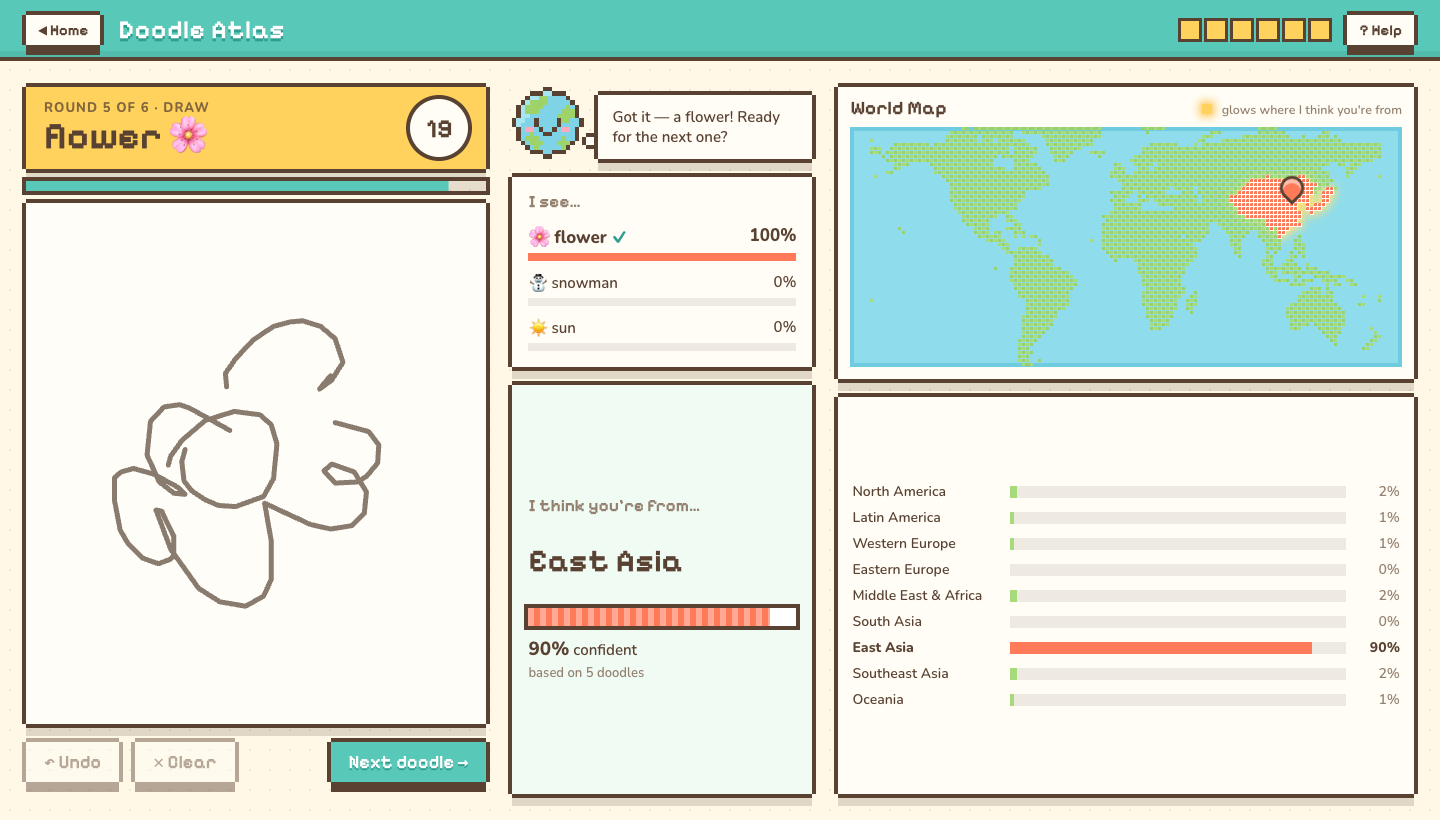
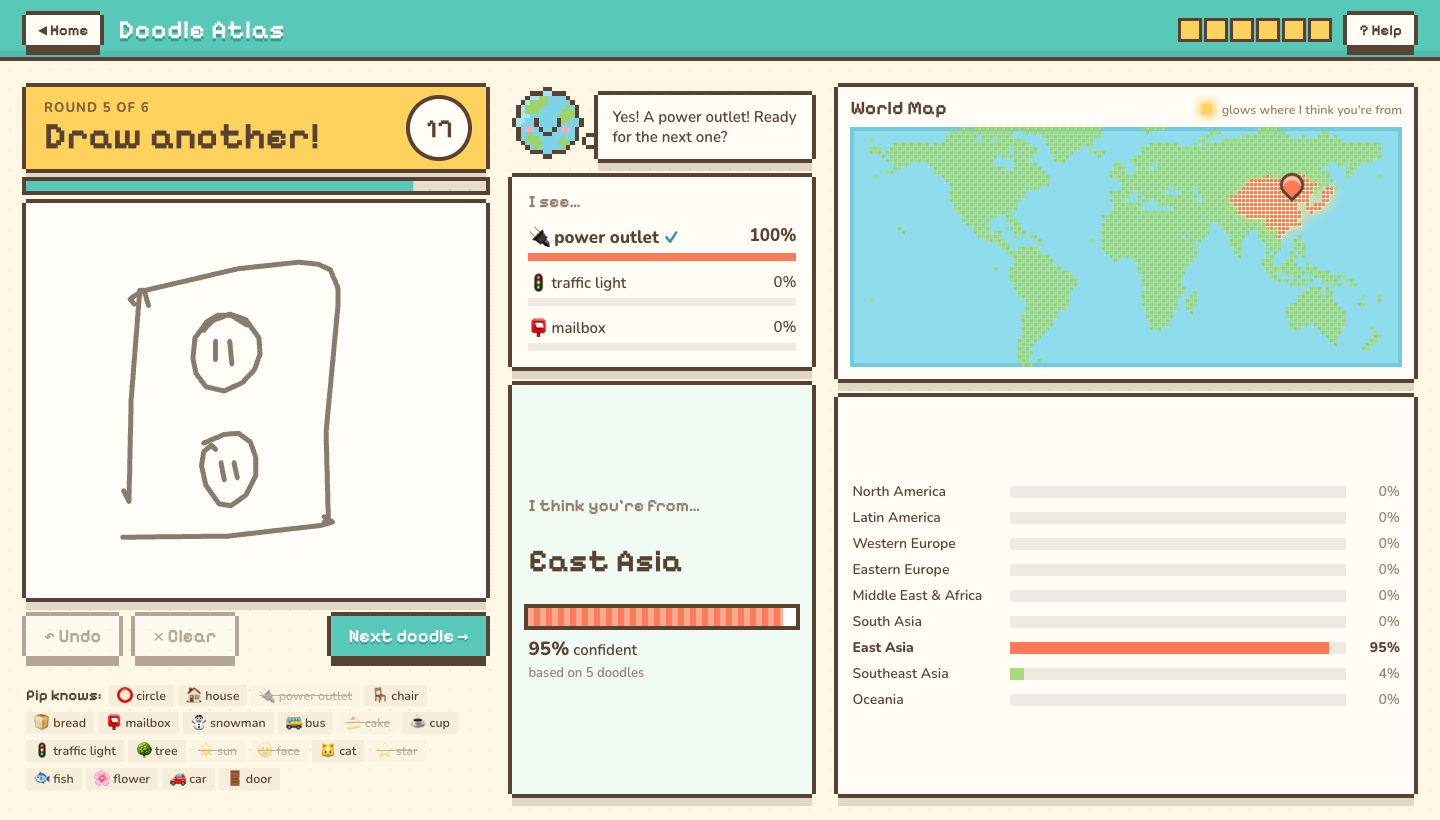
Switch to free drawing: no prompts, Pip guesses blind and the player confirms each round
Claude-Session: https://claude.ai/code/session_01C94jMmo8qpS2XiW7ZMXFM3

diff --git a/web/js/game.js b/web/js/game.js
@@ -33,9 +33,10 @@ export async function createGame({ onHome }) {
   const barRows = [...$("region-bars").children];
 
   // ---------- state ----------
-  let prompts = [], round = 0, strokes = [], current = null;
-  let phase = "idle";            // idle | drawing | review
-  let timerStart = null, celebrated = false;
+  let round = 0, strokes = [], current = null;
+  const drawn = new Set();       // objects the player has already drawn this game
+  let phase = "idle";            // idle | drawing | confirm | review
+  let timerStart = null;
   let roundLogs = [];            // log region-probabilities of each finished doodle
   let gallery = [];              // {img, word, guess, hit}
   let lastPred = null, inflight = false, dirty = false, token = 0;
@@ -65,7 +66,7 @@ export async function createGame({ onHome }) {
     return [Math.round((e.clientX - r.left) * 10) / 10, Math.round((e.clientY - r.top) * 10) / 10];
   };
   board.addEventListener("pointerdown", (e) => {
-    if (phase === "review" || phase === "idle") return;
+    if (phase !== "drawing") return;
     e.preventDefault();
     try { board.setPointerCapture(e.pointerId); } catch (err) { /* synthetic pointers cannot be captured */ }
     current = [point(e)];
@@ -95,12 +96,13 @@ export async function createGame({ onHome }) {
   btnClear.onclick = () => { if (phase === "drawing") { strokes = []; redraw(); requestPrediction(); } };
 
   // ---------- predictions ----------
-  async function fetchPrediction() {
+  /** category = null lets the model use its own guess of what the doodle is. */
+  async function fetchPrediction(category = null) {
     const all = current ? [...strokes, current] : strokes;
     if (!all.length) return null;
     const res = await fetch("/api/predict", {
       method: "POST", headers: { "Content-Type": "application/json" },
-      body: JSON.stringify({ strokes: all, category: prompts[round] }),
+      body: JSON.stringify({ strokes: all, category }),
     });
     if (!res.ok) throw new Error(`predict failed: ${res.status}`);
     const out = await res.json();
@@ -158,12 +160,12 @@ export async function createGame({ onHome }) {
     });
   }
 
-  function showCategories(pred) {
+  function showCategories(pred, confirmed = -1) {
     const list = $("cat-list");
     if (!pred) { list.innerHTML = `<li class="empty">Nothing yet — start doodling!</li>`; return null; }
     const ranked = pred.category_probs.map((p, i) => [p, i]).sort((a, b) => b[0] - a[0]).slice(0, 3);
     list.innerHTML = ranked.map(([p, i]) =>
-      `<li class="${i === prompts[round] ? "hit" : ""}"><span class="name">${EMOJI[categories[i]] || ""} ${categories[i]}</span>` +
+      `<li class="${i === confirmed ? "hit" : ""}"><span class="name">${EMOJI[categories[i]] || ""} ${categories[i]}</span>` +
       `<span>${pct(p)}</span><span class="bar"><i style="width:${pct(p)}"></i></span></li>`).join("");
     return ranked[0];
   }
@@ -171,14 +173,12 @@ export async function createGame({ onHome }) {
   function showPrediction() {
     const top = showCategories(lastPred);
     showRegions(belief(lastPred));
-    const word = categories[prompts[round]];
-    if (!top) { say(`Draw ${withArticle(word)} — I'm watching!`); return; }
+    if (!top) { say("Draw anything from my list — I'm watching!"); return; }
     const [p, i] = top;
-    if (i === prompts[round] && p > 0.5) {
-      say(`Oh! I know — it's ${withArticle(word)}! ${EMOJI[word] || ""} Keep going, every stroke is a clue.`);
-      if (!celebrated) { celebrated = true; hop(); }
-    } else if (p < 0.3) say("Hmm… I see squiggles. Keep going!");
-    else say(`Is it ${withArticle(categories[i])}? ${EMOJI[categories[i]] || ""}`);
+    const name = `${withArticle(categories[i])} ${EMOJI[categories[i]] || ""}`;
+    if (p < 0.3) say("Hmm… I see squiggles. Keep going!");
+    else if (p < 0.65) say(`Is it ${name}?`);
+    else say(`Ooh, I think it's ${name}! Keep going, every stroke is a clue.`);
   }
 
   function say(text) { bubble.textContent = text; }
@@ -186,31 +186,36 @@ export async function createGame({ onHome }) {
 
   // ---------- rounds ----------
   function renderPips() {
-    $("round-pips").innerHTML = prompts.map((_, i) =>
+    $("round-pips").innerHTML = Array.from({ length: ROUNDS }, (_, i) =>
       `<span class="pip ${i < round ? "done" : i === round ? "now" : ""}"></span>`).join("");
+  }
+  function renderKnown() {
+    $("known-list").innerHTML = categories.map((c, i) =>
+      `<span class="chip ${drawn.has(i) ? "used" : ""}">${EMOJI[c] || ""} ${c}</span>`).join("");
   }
 
   function startRound() {
     token++;
-    strokes = []; current = null; lastPred = null; timerStart = null; celebrated = false;
+    strokes = []; current = null; lastPred = null; timerStart = null;
     phase = "drawing";
-    const word = categories[prompts[round]];
-    $("prompt-label").textContent = `Round ${round + 1} of ${ROUNDS} · Draw`;
-    $("prompt-word").textContent = `${word} ${EMOJI[word] || ""}`;
+    $("prompt-label").textContent = `Round ${round + 1} of ${ROUNDS}`;
+    $("prompt-word").textContent = round === 0 ? "Draw anything!" : "Draw another!";
     $("timer-num").textContent = SECONDS;
     $("timer").classList.remove("hurry");
     $("timer-fill").style.transform = "scaleX(1)";
     $("board-hint").classList.remove("gone");
+    $("confirm").hidden = true;
     wrap.classList.remove("locked");
     btnDone.textContent = "Done ✓";
-    btnUndo.disabled = btnClear.disabled = false;
-    renderPips(); redraw();
+    btnDone.disabled = btnUndo.disabled = btnClear.disabled = false;
+    renderPips(); renderKnown(); redraw();
     showCategories(null);
     showRegions(belief(null));
-    say(round === 0 ? `Hi! I'm Pip. Draw ${withArticle(word)} and I'll start guessing!`
-                    : `Next up: ${withArticle(word)}! Draw it your way.`);
+    say(round === 0 ? "Hi! I'm Pip. Pick anything from my list, don't tell me what — just draw, and I'll guess!"
+                    : "Next one! Pick something different and surprise me.");
   }
 
+  /** Time is up (or Done was pressed): Pip commits to a guess and asks if it is right. */
   async function endRound() {
     if (phase !== "drawing") return;
     endStroke();
@@ -222,25 +227,52 @@ export async function createGame({ onHome }) {
       say("Draw something first — even a quick scribble!");
       return;
     }
-    phase = "review"; token++;
+    phase = "confirm"; token++;
     wrap.classList.add("locked");
-    btnUndo.disabled = btnClear.disabled = true;
-    btnDone.disabled = true;
-    const word = categories[prompts[round]];
+    btnDone.disabled = btnUndo.disabled = btnClear.disabled = true;
     try { lastPred = (await fetchPrediction()) || lastPred; } catch (err) { /* keep the last live prediction */ }
-    btnDone.disabled = false;
-    if (lastPred) {
+    if (!lastPred) { say("I couldn't reach the model — is the server running?"); phase = "drawing"; btnDone.disabled = false; return; }
+    const guess = showCategories(lastPred)[1];
+    say(`My guess: ${withArticle(categories[guess])} ${EMOJI[categories[guess]] || ""} — did I get it?`);
+
+    // ask the player: right or wrong? (and if wrong, what was it?)
+    const box = $("confirm"), pick = $("confirm-pick");
+    $("confirm-q").textContent = `Is it ${withArticle(categories[guess])}?`;
+    $("confirm-btns").hidden = false; pick.hidden = true; box.hidden = false;
+    $("confirm-yes").onclick = () => finishRound(guess, guess);
+    $("confirm-no").onclick = () => {
+      $("confirm-q").textContent = "Oops! What was it?";
+      $("confirm-btns").hidden = true; pick.hidden = false;
+      pick.innerHTML = categories.map((c, i) => i === guess ? "" :
+        `<button class="chip chip--btn" data-c="${i}">${EMOJI[c] || ""} ${c}</button>`).join("") +
+        `<button class="chip chip--btn chip--other" data-c="-1">something else</button>`;
+      pick.querySelectorAll("button").forEach((b) => { b.onclick = () => finishRound(guess, +b.dataset.c); });
+    };
+  }
+
+  /** truth = index of what the player really drew, or -1 for something Pip doesn't know. */
+  async function finishRound(guess, truth) {
+    if (phase !== "confirm") return;
+    phase = "review";
+    $("confirm").hidden = true;
+    const hit = guess === truth;
+    const img = board.toDataURL("image/png");
+    if (truth >= 0) {
+      // the region head works best when it knows what the object is, so re-ask with the confirmed answer
+      if (!hit) { try { lastPred = (await fetchPrediction(truth)) || lastPred; } catch (err) { /* keep previous */ } }
       roundLogs.push(lastPred.region_probs.map(Math.log));
-      const top = showCategories(lastPred);
-      showRegions(belief(null));
-      const hit = top[1] === prompts[round];
-      gallery.push({ img: board.toDataURL("image/png"), word, guess: categories[top[1]], hit });
-      say(hit ? `Got it — ${withArticle(word)}! ${round + 1 < ROUNDS ? "Ready for the next one?" : "That's all six!"}`
-              : `I guessed ${withArticle(categories[top[1]])}… it was ${withArticle(word)}? Still a useful clue!`);
-      if (hit) hop();
+      drawn.add(truth);
     }
+    showCategories(lastPred, truth);
+    showRegions(belief(null));
+    gallery.push({ img, word: truth >= 0 ? categories[truth] : "something else", guess: categories[guess], hit });
     round++;
-    renderPips();
+    const more = round < ROUNDS ? "Ready for the next one?" : "That's all six!";
+    if (hit) { say(`Yes! ${withArticle(categories[guess])[0].toUpperCase() + withArticle(categories[guess]).slice(1)}! ${more}`); hop(); }
+    else if (truth >= 0) say(`Ahh, ${withArticle(categories[truth])}! Thanks — that's still a clue about where you're from. ${more}`);
+    else say(`I don't know that one yet, so I won't count it as a clue. ${more}`);
+    renderPips(); renderKnown();
+    btnDone.disabled = false;
     btnDone.textContent = round < ROUNDS ? "Next doodle →" : "See Pip's guess ★";
   }
 
@@ -264,7 +296,17 @@ export async function createGame({ onHome }) {
   // ---------- final verdict ----------
   function showResult() {
     const b = belief(null);
-    if (!b) { start(); return; }
+    const hits = gallery.filter((g) => g.hit).length;
+    $("result-score").textContent = `Pip named ${hits} of your ${gallery.length} doodles`;
+    if (!b) {
+      $("result-region").textContent = "No idea!";
+      $("result-conf-num").textContent = "0%"; $("result-meter").style.width = "0%";
+      $("runner-ups").innerHTML = "<li>I didn't recognise enough doodles to guess a region</li>";
+      $("gallery").innerHTML = ""; $("feedback").hidden = true;
+      $("result-overlay").hidden = false;
+      return;
+    }
+    $("feedback").hidden = false;
     const order = b.probs.map((p, r) => [p, r]).sort((x, y) => y[0] - x[0]);
     const [topP, top] = order[0];
     $("result-region").textContent = regionNames[top];
@@ -305,11 +347,7 @@ export async function createGame({ onHome }) {
 
   function start() {
     $("result-overlay").hidden = true;
-    // six different random prompts
-    const pool = categories.map((_, i) => i);
-    for (let i = pool.length - 1; i > 0; i--) { const j = Math.floor(Math.random() * (i + 1)); [pool[i], pool[j]] = [pool[j], pool[i]]; }
-    prompts = pool.slice(0, ROUNDS);
-    round = 0; roundLogs = []; gallery = [];
+    round = 0; roundLogs = []; gallery = []; drawn.clear();
     sizeBoard();
     startRound();
   }

diff --git a/web/index.html b/web/index.html
@@ -60,21 +60,25 @@
       <div class="panel board-panel">
         <div class="prompt px">
           <div class="prompt-text">
-            <span class="prompt-label" id="prompt-label">Round 1 of 6 · Draw</span>
-            <span class="prompt-word" id="prompt-word">…</span>
+            <span class="prompt-label" id="prompt-label">Round 1 of 6</span>
+            <span class="prompt-word" id="prompt-word">Draw anything!</span>
           </div>
           <div class="timer" id="timer"><span id="timer-num">20</span></div>
         </div>
         <div class="timer-track"><div class="timer-fill" id="timer-fill"></div></div>
         <div class="board px" id="board-wrap">
           <canvas id="board"></canvas>
-          <div class="board-hint" id="board-hint">✎ Start drawing here — the clock starts with your first stroke</div>
+          <div class="board-hint" id="board-hint">✎ Pick something from the list below and start drawing.<br>Don't tell Pip what it is! The clock starts with your first stroke.</div>
         </div>
         <div class="tools">
           <button id="btn-undo" class="px-btn">↶ Undo</button>
           <button id="btn-clear" class="px-btn">✕ Clear</button>
           <span class="tools-gap"></span>
           <button id="btn-done" class="px-btn px-btn--go">Done ✓</button>
+        </div>
+        <div class="known">
+          <span class="known-label">Pip knows:</span>
+          <span id="known-list"></span>
         </div>
       </div>
 
@@ -88,6 +92,14 @@
         <div class="card px">
           <div class="card-title">I see…</div>
           <ol class="cat-list" id="cat-list"></ol>
+          <div class="confirm" id="confirm" hidden>
+            <div class="confirm-q" id="confirm-q">Did I get it?</div>
+            <div class="confirm-btns" id="confirm-btns">
+              <button class="px-btn px-btn--small px-btn--go" id="confirm-yes">Yes!</button>
+              <button class="px-btn px-btn--small" id="confirm-no">Nope</button>
+            </div>
+            <div class="confirm-pick" id="confirm-pick" hidden></div>
+          </div>
         </div>
 
         <div class="card px card--region">
@@ -121,10 +133,10 @@
     <div class="modal px" role="dialog" aria-labelledby="how-title">
       <h2 id="how-title">How to play</h2>
       <ol class="how-steps">
-        <li><span class="step-n">1</span><div><b>Get a word.</b> Each round gives you something simple to draw — a cat, a house, a mailbox…</div></li>
+        <li><span class="step-n">1</span><div><b>Pick something to draw — secretly.</b> Choose anything from the list of 20 things Pip knows (a cat, a house, a mailbox…). Pip is not told what you picked.</div></li>
         <li><span class="step-n">2</span><div><b>Doodle it on the whiteboard.</b> You have 20 seconds, starting from your first stroke. Draw it the way you normally would!</div></li>
-        <li><span class="step-n">3</span><div><b>Watch Pip guess live.</b> The AI names your doodle while you draw, and the world map <em>glows</em> where it thinks you're from.</div></li>
-        <li><span class="step-n">4</span><div><b>Six doodles, one verdict.</b> After the last round, Pip makes a final guess with a confidence score — then you tell it if it was right.</div></li>
+        <li><span class="step-n">3</span><div><b>Watch Pip guess live.</b> The AI tries to name your doodle while you draw, and the world map <em>glows</em> where it thinks you're from. When you finish, tell Pip if it got your doodle right.</div></li>
+        <li><span class="step-n">4</span><div><b>Six doodles, one verdict.</b> Draw six different things. After the last round, Pip makes a final guess about your region with a confidence score — then you tell it if it was right.</div></li>
       </ol>
       <p class="how-note" id="how-note">Guessing a region from a doodle is hard — small habits (which way you draw a circle,
         what your mailbox looks like) are the only clues. Treat it as a fun experiment, not a passport check.</p>
@@ -141,6 +153,7 @@
         <div><b id="result-conf-num">0%</b> confident</div>
       </div>
       <ul class="runner-ups" id="runner-ups"></ul>
+      <div class="result-score" id="result-score"></div>
       <div class="gallery" id="gallery"></div>
 
       <div class="feedback" id="feedback">

diff --git a/web/css/style.css b/web/css/style.css
@@ -140,7 +140,7 @@ body.leaving .landing-vignette { opacity: 0; transition: opacity .5s ease; }
 @keyframes shake { 50% { transform: rotate(-6deg) scale(1.06); } }
 .timer-track { height: 10px; margin: -6px 0; background: rgba(90,66,50,.15); box-shadow: 0 0 0 var(--px) var(--ink); }
 .timer-fill { height: 100%; width: 100%; background: var(--teal); transform-origin: left; }
-.board { position: relative; flex: 1; min-height: 300px; background: #fff; cursor: crosshair; touch-action: none; }
+.board { position: relative; flex: 1; min-height: 260px; background: #fff; cursor: crosshair; touch-action: none; }
 .board canvas { position: absolute; inset: 0; width: 100%; height: 100%; display: block; touch-action: none; }
 .board.locked { cursor: default; }
 .board.locked::after { content: ""; position: absolute; inset: 0; background: rgba(255,248,231,.35); }
@@ -149,6 +149,19 @@ body.leaving .landing-vignette { opacity: 0; transition: opacity .5s ease; }
 .board-hint.gone { opacity: 0; }
 .tools { display: flex; gap: 16px; padding-bottom: 12px; }
 .tools-gap { flex: 1; }
+
+.known { font-size: 12.5px; line-height: 2; color: var(--ink-soft); margin-top: -6px; }
+.known-label { font-family: "Pixelify Sans", monospace; font-weight: 700; font-size: 15px; color: var(--ink); margin-right: 4px; }
+.chip { display: inline-block; background: #f6eeda; color: var(--ink); padding: 0 8px; margin: 0 4px 4px 0; line-height: 1.75; white-space: nowrap; }
+.chip.used { opacity: .4; text-decoration: line-through; }
+.chip--btn { font-size: 13px; font-weight: 600; box-shadow: 0 0 0 2px var(--ink); margin: 0 7px 8px 2px; background: var(--paper); }
+.chip--btn:hover { background: var(--sun); }
+.chip--other { background: #f6eeda; font-style: italic; }
+.confirm { margin-top: 12px; padding-top: 12px; border-top: 3px dashed rgba(90,66,50,.2); animation: pop-in .3s cubic-bezier(.2,1.3,.3,1); }
+.confirm-q { font-family: "Pixelify Sans", monospace; font-weight: 700; font-size: 19px; margin-bottom: 12px; }
+.confirm-btns { display: flex; gap: 14px; padding-bottom: 10px; }
+.confirm-pick { max-height: 170px; overflow: auto; padding: 3px 0 0 1px; }
+.result-score { margin-top: 14px; font-weight: 800; font-size: 15px; }
 
 /* --- guesses --- */
 .buddy-row { display: flex; align-items: flex-end; gap: 14px; }
@@ -161,7 +174,7 @@ body.leaving .landing-vignette { opacity: 0; transition: opacity .5s ease; }
   box-shadow: -4px 0 0 var(--ink), 0 -4px 0 var(--ink), 0 4px 0 var(--ink); }
 .card { padding: 14px 16px 16px; }
 .card-title { font-family: "Pixelify Sans", monospace; font-weight: 700; font-size: 17px; color: var(--ink-soft); margin-bottom: 10px; }
-.cat-list { list-style: none; margin: 0; padding: 0; display: grid; gap: 8px; min-height: 124px; }
+.cat-list { list-style: none; margin: 0; padding: 0; display: grid; gap: 8px; min-height: 124px; align-content: start; }
 .cat-list li { display: grid; grid-template-columns: 1fr auto; align-items: center; gap: 4px 10px; font-size: 15px; }
 .cat-list li .bar { grid-column: 1 / -1; height: 8px; background: rgba(90,66,50,.1); }
 .cat-list li .bar i { display: block; height: 100%; background: var(--pink); transition: width .25s ease; }

diff --git a/README.md b/README.md
@@ -17,22 +17,27 @@
 
 A drawing game where a neural network watches you doodle and guesses two things in real time:
 
-1. 🎨 **What you're drawing** (like Google's Quick, Draw!)
+1. 🎨 **What you're drawing** — you choose it, nobody tells the AI (like Google's Quick, Draw!, but without a prompt)
 2. 🗺 **Which region of the world you're from**, with a confidence score — and a pixel-art world map that glows where the model thinks you live.
 
 ## 📸 A look at the game
 
-| Guessing while you draw | The map heats up as Pip gets more sure |
+| You draw, Pip guesses live | "Did I get it?" |
 |:---:|:---:|
-| <img src="docs/screenshots/game-drawing.png" alt="Round 3: a half-finished traffic light, already recognised, East Asia at 32%"> | <img src="docs/screenshots/game-map-glow.png" alt="Round 5: a flower, East Asia glowing coral at 90% confidence"> |
-| Halfway through a traffic light, Pip already knows what it is and has a first hunch about the region. | Five doodles in, East Asia glows coral and the confidence meter fills up. |
+| <img src="docs/screenshots/game-drawing.png" alt="A half-finished doodle with Pip's live guesses and the world map"> | <img src="docs/screenshots/game-confirm.png" alt="Pip asks: is it the sun? with Yes and Nope buttons; East Asia glowing at 64%"> |
+| Nobody tells Pip what you're drawing — it has to work it out from your strokes. | When you finish, Pip commits to a guess and you tell it if it's right. |
+
+| Wrong guess? Tell Pip what it was | The map heats up as Pip gets more sure |
+|:---:|:---:|
+| <img src="docs/screenshots/game-correct-pip.png" alt="After pressing Nope, a list of objects to pick the right answer from"> | <img src="docs/screenshots/game-map-glow.png" alt="Round 5: East Asia glowing coral on the pixel world map at 95% confidence"> |
+| Pick the real answer (or "something else") and Pip uses it as a clue. | Green = probably not, yellow → coral = more and more sure. |
 
 | Pip's final verdict | How to play |
 |:---:|:---:|
-| <img src="docs/screenshots/result.png" alt="Final verdict screen: East Asia, 37% confident, with a gallery of the six doodles"> | <img src="docs/screenshots/how-to-play.jpg" alt="How to play dialog with four steps"> |
-| After six doodles: one guess, a confidence score, your gallery — and you tell Pip if it was right. | The in-game instructions, one click from the landing page. |
+| <img src="docs/screenshots/result.png" alt="Final verdict: East Asia, 99% confident, Pip named 6 of 6 doodles, with a gallery"> | <img src="docs/screenshots/how-to-play.jpg" alt="How to play dialog with four steps"> |
+| After six doodles: one region guess, a confidence score, and your gallery. | The in-game instructions, one click from the landing page. |
 
-<sub>The doodles in these screenshots are real drawings by East Asian players from the Quick, Draw! test set (never seen in training), replayed stroke by stroke through the game. Confidence moves both ways: it hit 90% after five doodles and fell to 37% after the sixth.</sub>
+<sub>The doodles in these screenshots are real drawings by East Asian players from the Quick, Draw! test set (never seen in training), replayed stroke by stroke through the game. This is one of the runs where Pip got the region right — of three sample runs we replayed, it was right in two. See the measured accuracy below.</sub>
 
 ## 📊 How good is it?
 
@@ -73,17 +78,20 @@ To stop the server press `Ctrl + C` in the terminal.
 ## 🎮 2. How to play
 
 1. On the landing page press **Play** (or **How to play** for the in-game instructions).
-2. Each round shows a word, e.g. **"Draw: snowman"**. Draw it on the white board with your mouse, trackpad or finger.
-3. The **20-second timer** starts with your first stroke. Use **Undo** / **Clear** if you mess up, and **Done ✓** when you're finished (or just let the timer run out).
+2. **Secretly pick something to draw** from the "Pip knows" list under the whiteboard (20 objects). The game does **not** tell the model what you picked — it has to guess from your drawing alone.
+3. Draw it on the white board with your mouse, trackpad or finger. The **20-second timer** starts with your first stroke. Use **Undo** / **Clear** if you mess up, and **Done ✓** when you're finished (or let the timer run out).
 4. While you draw:
    - **"I see…"** lists the AI's top 3 guesses for *what* you're drawing.
    - **"I think you're from…"** shows its best guess for your region and how confident it is.
    - The **world map glows** — green means "probably not", yellow → coral means "more and more sure". The bars under the map show the percentage for all 9 regions.
-5. After **6 doodles** Pip (the little globe) gives a final verdict that combines all six drawings. Tell it whether it was right — it keeps a score on your computer.
+5. When the round ends, Pip asks **"Is it a …?"**
+   - **Yes!** – Pip got it.
+   - **Nope** – pick what it really was from the list, or **something else** if it wasn't one of the 20 objects (that doodle is then not used as a region clue).
+6. Draw **six different things** (objects you've used are crossed out). After the sixth, Pip gives a final verdict on your region that combines all your doodles, and shows how many doodles it named correctly. Tell it whether the region was right — it keeps a score on your computer.
 
 **The 9 regions:** North America · Latin America · Western Europe · Eastern Europe · Middle East & Africa · South Asia · East Asia · Southeast Asia · Oceania
 
-**The 20 things you may be asked to draw:** circle, house, power outlet, chair, bread, mailbox, snowman, bus, cake, cup, traffic light, tree, sun, face, cat, star, fish, flower, car, door
+**The 20 things Pip knows:** circle, house, power outlet, chair, bread, mailbox, snowman, bus, cake, cup, traffic light, tree, sun, face, cat, star, fish, flower, car, door
 
 ## 🧠 3. How it works
 
@@ -95,6 +103,7 @@ your strokes ──► server renders a 3×64×64 image ──► CNN ──► 
 - **Data:** [Google Quick, Draw!](https://github.com/googlecreativelab/quickdraw-dataset) simplified NDJSON files. Every drawing has a country code; we map countries to 9 regions (`doodle/regions.py`) and keep up to 3,000 drawings per region per category → **507,316 drawings**, almost perfectly balanced across regions (South Asia has fewer drawings available).
 - **Image encoding (`doodle/render.py`):** a normal bitmap forgets *how* you drew. We use 3 channels: (1) the ink, (2) drawing order — early ink is dim, late ink is bright, (3) stroke direction — each stroke fades from start to end. This lets the CNN see habits like which way you draw a circle.
 - **Model (`doodle/model.py`):** one CNN (4 conv blocks: 32→64→128→256 filters, batch norm, max-pool, dropout) with two heads. The region head is also told which object is being drawn.
+- **No hints in the game:** while you draw, the model is never told what the object is; the region head uses the model's *own* guess. Only after you confirm or correct Pip at the end of a round is the region estimate for that doodle recomputed with the confirmed object.
 - **Partial drawings:** during training half of the drawings are cut off at a random point (15–100% finished), so the model can guess while you are still drawing.
 - **Combining six doodles:** the game adds up the log-probabilities from each finished doodle (scaled by a calibration factor fitted on validation data) to get the overall belief shown on the map.
 

diff --git a/CLAUDE.md b/CLAUDE.md
@@ -72,3 +72,4 @@ The game is called **Doodle Atlas**. See `README.md` for run/play instructions a
 - **This Mac has 8 GB RAM** and is often swapping: keep training at batch 128 / 4 workers, and don't run two trainings at once.
 - **Git:** commit regularly as work progresses (user request). Push when a remote exists.
 - Be honest in any write-up about accuracy: region prediction from doodles is a weak signal; report numbers from `results/`.
+- **Game flow (changed Nov 10 at Matthew's request):** no prompts. The player freely draws one of the 20 known objects, the model guesses blind, and after each of the 6 rounds the player confirms (Yes / Nope → pick the real object or "something else"). Reason: telling the player what to draw felt like it biased the guessing. Don't reintroduce prompts.
